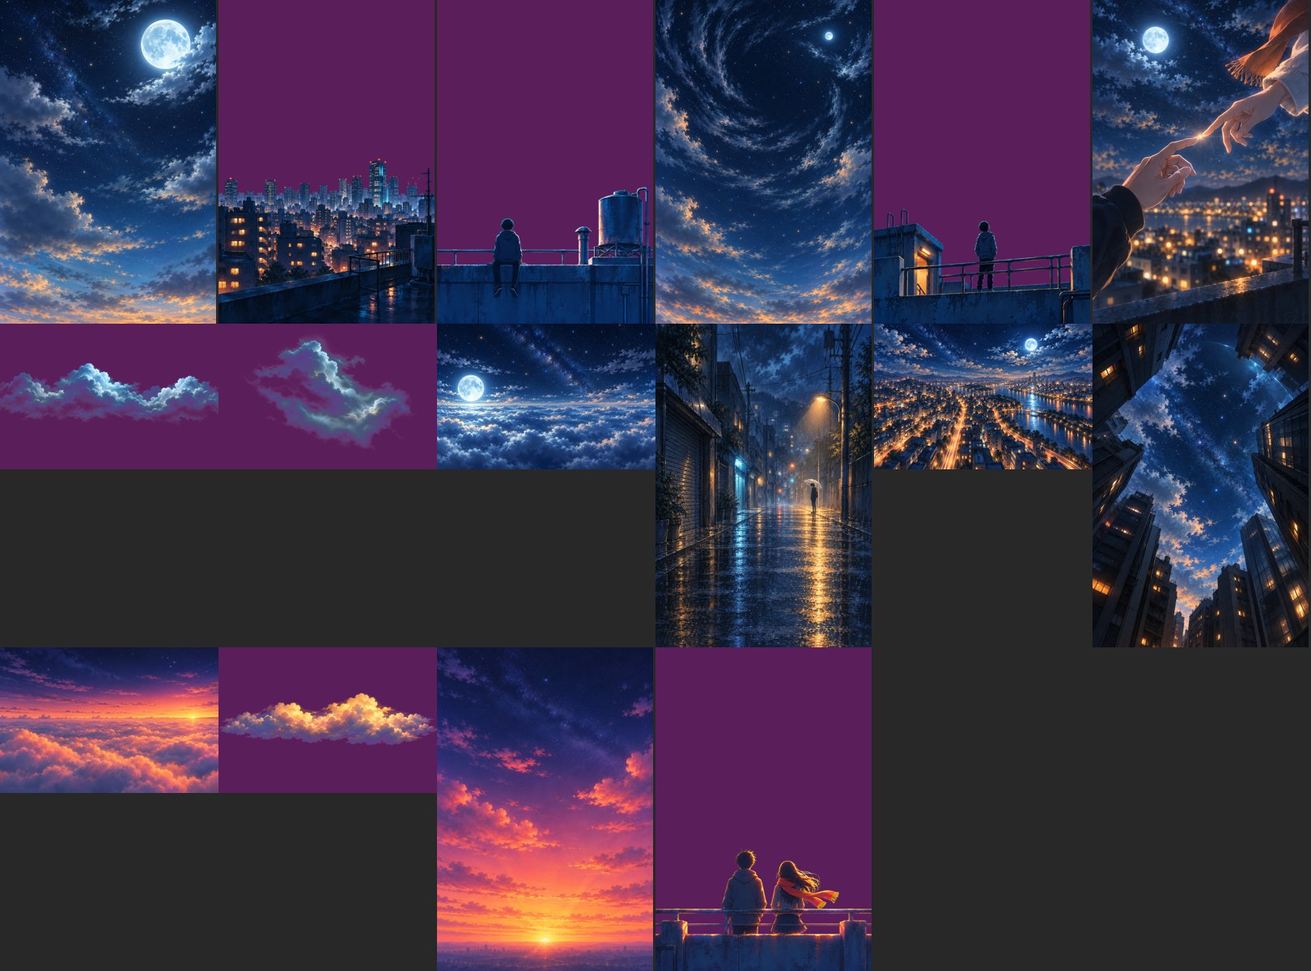
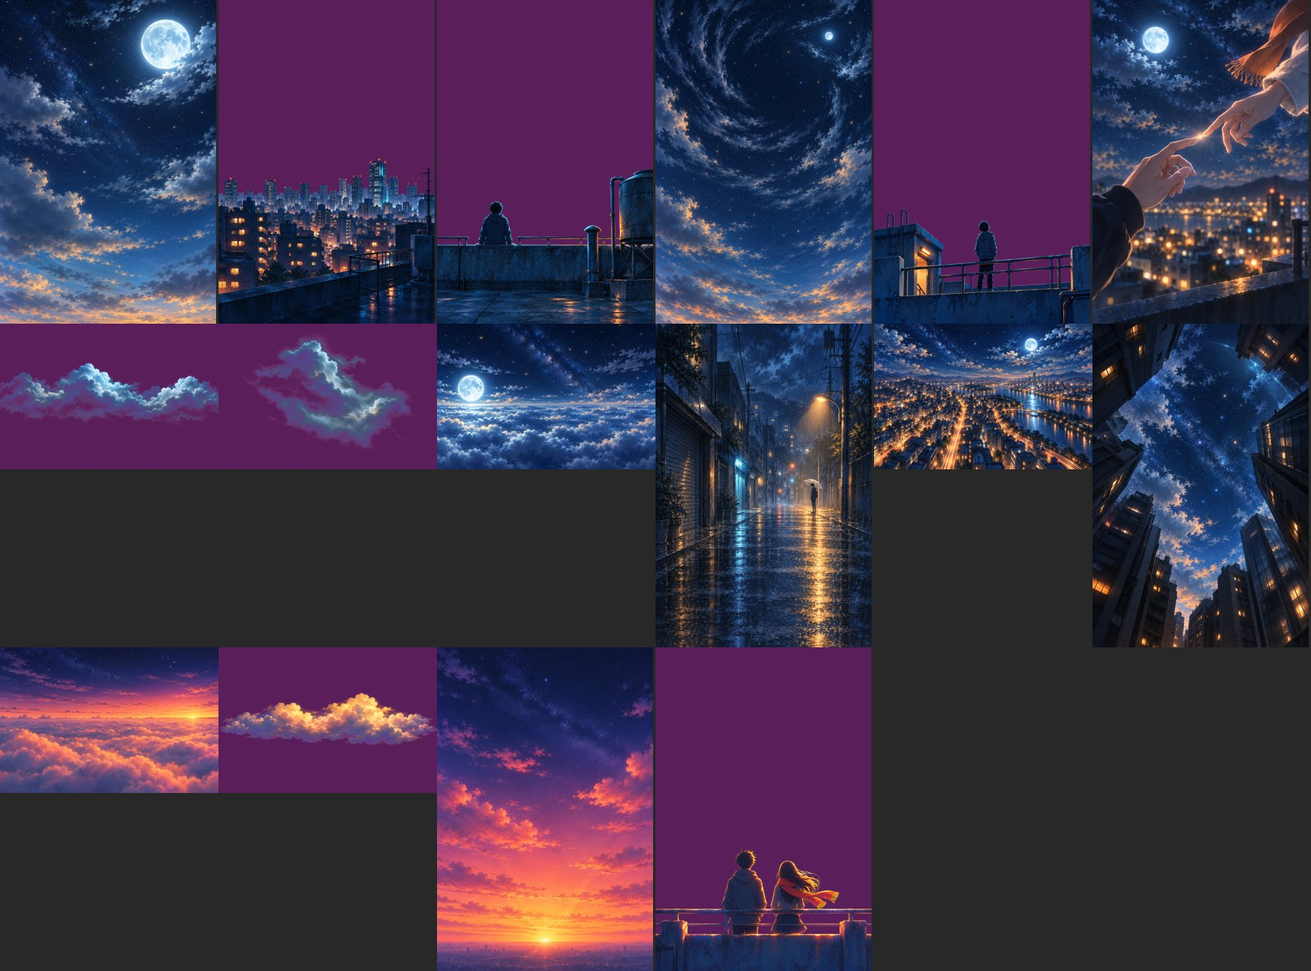
ashita: fix rooftop boy pose, readable subtitles, clipped lyric line
- s01_roof: boy sits on the parapet facing away, legs over the outer side
  (previous plate had his legs hanging toward the viewer)
- shared/cine.js sub(): opt-in SUB_BOX draws a soft dark band behind the
  Korean subtitle and uses weight 500; enabled only in ashita/cine.html
- line 14: add maxW so the second row no longer overflows the frame

Changed region(s): [[0.3086, 0.1542, 0.5247, 0.3392]]

diff --git a/ashita/kinetic_cine.html b/ashita/kinetic_cine.html
@@ -4,7 +4,7 @@
 <meta charset="utf-8">
 <meta name="viewport" content="width=device-width,initial-scale=1">
 <title>Ashita Night Flight</title>
-<link href="https://fonts.googleapis.com/css2?family=Josefin+Sans:wght@100;300;600&family=Noto+Sans+JP:wght@300;700;900&family=Noto+Sans+KR:wght@300;700&display=swap" rel="stylesheet">
+<link href="https://fonts.googleapis.com/css2?family=Josefin+Sans:wght@100;300;600&family=Noto+Sans+JP:wght@300;700;900&family=Noto+Sans+KR:wght@300;500;700&display=swap" rel="stylesheet">
 <style>*{margin:0}html,body{height:100%;background:#000;overflow:hidden}#cv{position:absolute;left:50%;top:50%;width:1080px;height:1920px;transform-origin:0 0}</style>
 </head>
 <body>
@@ -13,6 +13,7 @@
 <script>
 /* 明日の夜空哨戒班 — one continuous night flight (single camera path, no cuts) */
 const D={"dur":180.0,"lines":[{"i":0,"t":"気分次第です僕は","ko":"기분 내키는 대로인 나는","u":[["気",1.24,1.32,0,0],["分",1.32,1.52,0,0],["次",1.52,1.65,0,0],["第",1.65,1.81,0,0],["で",1.81,2.13,0,0],["す",2.13,2.29,0,0],["僕",2.29,2.65,0,0],["は",2.65,2.93,0,0]],"s":1.24,"e":2.93},{"i":1,"t":"敵を選んで戦う少年","ko":"적을 골라서 싸우는 소년","u":[["敵",2.98,3.26,0,0],["を",3.26,3.62,0,0],["選",3.62,3.82,0,0],["ん",3.82,3.9,0,0],["で",3.9,4.27,0,0],["戦",4.27,4.63,0,0],["う",4.63,5.03,0,0],["少",5.03,5.24,0,0],["年",5.24,5.51,0,0]],"s":2.98,"e":5.51},{"i":2,"t":"叶えたい未来も無くて","ko":"이루고 싶은 미래도 없어서","u":[["叶",5.56,5.88,0,0],["え",5.88,6.12,0,0],["た",6.12,6.37,0,0],["い",6.37,6.65,0,0],["未",6.65,6.89,0,0],["来",6.89,7.13,0,0],["も",7.13,7.45,0,0],["無",7.45,7.66,0,0],["く",7.66,7.82,0,0],["て",7.82,8.17,0,0]],"s":5.56,"e":8.17},{"i":3,"t":"夢に描かれるのを待ってた","ko":"꿈이 그려지길 기다리고 있었어","u":[["夢",8.22,8.42,0,0],["に",8.42,8.67,0,0],["描",8.67,8.99,0,0],["か",8.99,9.11,0,0],["れ",9.11,9.31,0,0],["る",9.31,9.55,0,0],["の",9.55,9.67,0,0],["を",9.67,9.73,0,0],["待",9.71,10.0,0,0],["っ",10.0,10.06,0,0],["て",10.04,10.2,0,0],["た",10.2,10.35,0,0]],"s":8.22,"e":10.35},{"i":4,"t":"そのくせ未来が怖くて","ko":"그런 주제에 미래가 무서워서","u":[["そ",10.4,11.0,0,0],["の",11.0,11.37,0,0],["く",11.37,11.45,0,0],["せ",11.45,11.81,0,0],["未",11.81,11.93,0,0],["来",11.93,12.17,0,0],["が",12.17,12.45,0,0],["怖",12.45,12.77,0,0],["く",12.77,12.85,0,0],["て",12.85,13.13,0,0]],"s":10.4,"e":13.13},{"i":5,"t":"明日を嫌って過去に願って","ko":"내일을 싫어하고 과거에 빌고","u":[["明",13.18,13.3,0,0],["日",13.3,13.54,0,0],["を",13.54,13.7,0,0],["嫌",13.7,14.06,0,0],["っ",14.06,14.14,0,0],["て",14.14,14.5,0,0],["過",14.5,14.58,0,0],["去",14.58,14.79,0,0],["に",14.79,15.07,0,0],["願",15.07,15.31,0,0],["っ",15.31,15.43,0,0],["て",15.43,15.74,0,0]],"s":13.18,"e":15.74},{"i":6,"t":"もう如何しようも無くなって叫ぶんだ","ko":"더 이상 어쩔 수 없어서 외치는 거야","u":[["も",15.79,15.87,0,0],["う",15.87,16.11,0,0],["如",16.11,16.27,0,0],["何",16.27,16.39,0,0],["し",16.39,16.48,0,0],["よ",16.48,16.56,0,0],["う",16.56,16.68,0,0],["も",16.68,16.92,0,0],["無",16.92,17.12,0,0],["く",17.12,17.32,0,0],["な",17.32,17.44,0,0],["っ",17.44,17.52,0,0],["て",17.52,17.76,0,0],["叫",17.76,18.08,0,0],["ぶ",18.08,18.29,0,0],["ん",18.29,18.41,0,0],["だ",18.41,18.8,0,0]],"s":15.79,"e":18.8},{"i":7,"t":"「明日よ！明日よ！もう来ないでよ！」って","ko":"「내일아! 내일아! 더는 오지 말아줘!」라고","u":[["「明",18.85,18.91,0,0],["日",18.89,19.05,0,0],["よ！",19.05,19.33,0,0],["明",19.33,19.41,0,0],["日",19.41,19.65,0,0],["よ！",19.65,19.94,0,0],["も",19.94,20.02,0,0],["う",20.02,20.3,0,0],["来",20.3,20.42,0,0],["な",20.42,20.66,0,0],["い",20.66,20.82,0,0],["で",20.82,21.06,0,0],["よ！」",21.06,21.34,0,0],["っ",21.34,21.4,0,0],["て",21.38,21.62,0,0]],"s":18.85,"e":21.62},{"i":8,"t":"そんな僕を置いて","ko":"그런 날 내버려 두고","u":[["そ",21.67,21.87,0,0],["ん",21.87,21.95,0,0],["な",21.95,22.63,0,0],["僕",22.63,23.03,0,0],["を",23.03,23.19,0,0],["置",23.19,23.25,0,0],["い",23.23,23.56,0,0],["て",23.56,24.31,0,0]],"s":21.67,"e":24.31},{"i":9,"t":"月は沈み陽は昇る","ko":"달은 지고 해는 떠올라","u":[["月",24.36,24.53,0,0],["は",24.53,24.69,0,0],["沈",24.69,24.93,0,0],["み",24.93,25.18,0,0],["陽",25.18,25.42,0,0],["は",25.42,25.67,0,0],["昇",25.67,25.99,0,0],["る",25.99,26.23,0,0]],"s":24.36,"e":26.23},{"i":10,"t":"けどその夜は違ったんだ","ko":"하지만 그 밤은 달랐어","u":[["け",26.28,26.44,0,0],["ど",26.44,26.81,0,0],["そ",26.81,26.93,0,0],["の",26.93,27.22,0,0],["夜",27.22,27.38,0,0],["は",27.38,27.71,0,0],["違",27.71,27.99,0,0],["っ",27.99,28.16,0,0],["た",28.16,28.22,0,0],["ん",28.2,28.26,0,0],["だ",28.24,28.43,0,0]],"s":26.28,"e":28.43},{"i":11,"t":"君は僕の手を","ko":"너는 나의 손을","u":[["君",28.48,29.41,0,0],["は",29.41,30.41,0,0],["僕",30.5,31.35,0,0],["の",31.35,31.75,0,0],["手",31.75,31.99,0,0],["を",31.99,33.76,0,0]],"s":28.48,"e":33.76},{"i":12,"t":"空へ舞う　世界の彼方","ko":"하늘로 흩날리는 세계의 저편","u":[["空",33.81,34.25,0,0],["へ",34.25,34.54,0,0],["舞",34.54,34.66,0,0],["う",34.66,35.22,0,0],["世",35.22,35.43,0,1],["界",35.43,35.83,0,0],["の",35.83,36.23,0,0],["彼",36.23,36.52,0,0],["方",36.52,37.07,0,0]],"s":33.81,"e":37.07},{"i":13,"t":"闇を照らす魁星","ko":"어둠을 비추는 괴성","u":[["闇",37.12,37.32,0,0],["を",37.32,37.48,0,0],["照",37.48,37.68,0,0],["ら",37.68,37.84,0,0],["す",37.84,38.12,0,0],["魁",38.12,38.28,0,0],["星",38.28,39.64,0,0]],"s":37.12,"e":39.64},{"i":14,"t":"『君と僕もさ、また明日へ向かっていこう』","ko":"『너와 나도 말이야, 다시 내일을 향해서 가자』","u":[["『君",39.69,40.45,0,0],["と",40.45,40.77,0,0],["僕",40.77,41.09,0,0],["も",41.09,41.33,0,0],["さ、",41.33,41.61,0,0],["ま",41.61,41.73,0,0],["た",41.73,42.05,0,0],["明",42.05,42.17,0,0],["日",42.17,42.41,0,0],["へ",42.41,42.61,0,0],["向",42.61,42.81,0,0],["か",42.81,42.97,0,0],["っ",42.97,43.05,0,0],["て",43.05,43.3,0,0],["い",43.3,43.46,0,0],["こ",43.46,43.62,0,0],["う』",43.62,44.17,0,0]],"s":39.69,"e":44.17},{"i":15,"t":"夢で終ってしまうのならば","ko":"꿈으로 끝나 버리는 것이라면","u":[["夢",44.22,44.54,0,0],["で",44.54,44.82,0,0],["終",44.82,44.98,0,0],["っ",44.98,45.26,0,0],["て",45.26,45.66,0,0],["し",45.66,45.82,0,0],["ま",45.82,45.94,0,0],["う",45.94,46.18,0,0],["の",46.18,46.38,0,0],["な",46.38,46.58,0,0],["ら",46.58,46.82,0,0],["ば",46.82,47.22,0,0]],"s":44.22,"e":47.22},{"i":16,"t":"「昨日を変えさせて」","ko":"「어제를 바꾸게 해줘」","u":[["「昨",47.27,47.39,0,0],["日",47.39,47.71,0,0],["を",47.71,47.77,0,0],["変",47.75,48.19,0,0],["え",48.19,48.25,0,0],["さ",48.23,48.35,0,0],["せ",48.35,49.35,0,0],["て」",49.39,49.62,0,0]],"s":47.27,"e":49.62},{"i":17,"t":"なんて言わないから","ko":"라고는 말하지 않을 테니까","u":[["な",49.67,49.95,0,0],["ん",49.95,50.01,0,0],["て",49.99,50.47,0,0],["言",50.47,50.63,0,0],["わ",50.63,50.83,0,0],["な",50.83,50.99,0,0],["い",50.99,51.48,0,0],["か",51.48,51.6,0,0],["ら",51.6,51.87,0,0]],"s":49.67,"e":51.87},{"i":18,"t":"また明日も君とこうやって笑わせて","ko":"다시 내일도 너랑 이렇게 해서 웃게 해줘","u":[["ま",51.92,52.04,0,0],["た",52.04,52.28,0,0],["明",52.28,52.4,0,0],["日",52.4,52.64,0,0],["も",52.64,52.92,0,0],["君",52.92,53.2,0,0],["と",53.2,53.52,0,0],["こ",53.52,53.6,0,0],["う",53.6,53.8,0,0],["や",53.8,53.96,0,0],["っ",53.96,54.04,0,0],["て",54.04,54.48,0,0],["笑",54.48,54.76,0,0],["わ",54.76,54.92,0,0],["せ",54.92,55.16,0,0],["て",55.16,57.16,0,0]],"s":51.92,"e":57.16},{"i":19,"t":"あれから世界は変わったって","ko":"그 후로 세상이 변했다고","u":[["あ",85.33,85.45,0,0],["れ",85.45,85.69,0,0],["か",85.69,85.81,0,0],["ら",85.81,86.26,0,0],["世",86.26,86.39,0,0],["界",86.39,86.63,0,0],["は",86.63,87.0,0,0],["変",87.0,87.16,0,0],["わ",87.16,87.28,0,0],["っ",87.28,87.4,0,0],["た",87.4,87.73,0,0],["っ",87.73,87.81,0,0],["て",87.81,88.17,0,0]],"s":85.33,"e":88.17},{"i":20,"t":"本気で思ったって","ko":"진심으로 생각하려해도","u":[["本",88.22,88.42,0,0],["気",88.42,88.59,0,0],["で",88.59,88.71,0,0],["思",88.71,88.91,0,0],["っ",88.91,88.99,0,0],["た",88.99,89.32,0,0],["っ",89.32,89.38,0,0],["て",89.36,89.42,0,0]],"s":88.22,"e":89.42},{"i":21,"t":"期待したって変えようとしたって","ko":"기대해도 바뀌려고 해도","u":[["期",89.24,90.24,0,0],["待",90.49,90.77,0,0],["し",90.77,90.93,0,0],["た",90.93,91.13,0,0],["っ",91.13,91.25,0,0],["て",91.25,91.54,0,0],["変",91.54,91.66,0,0],["え",91.66,91.82,0,0],["よ",91.82,91.94,0,0],["う",91.94,92.1,0,0],["と",92.1,92.38,0,0],["し",92.38,92.54,0,0],["た",92.54,92.78,0,0],["っ",92.78,92.9,0,0],["て",92.9,93.34,0,0]],"s":89.24,"e":93.34},{"i":22,"t":"未来は残酷で","ko":"미래는 잔혹하고","u":[["未",93.39,93.55,0,0],["来",93.55,93.79,0,0],["は",93.79,94.27,0,0],["残",94.27,94.43,0,0],["酷",94.43,94.76,0,0],["で",94.76,94.95,0,0]],"s":93.39,"e":94.95},{"i":23,"t":"それでもいつだって君と見ていた","ko":"그래도 언제나 너랑 바라봤던","u":[["そ",95.0,95.28,0,0],["れ",95.28,95.48,0,0],["で",95.48,95.64,0,0],["も",95.64,95.97,0,0],["い",95.97,96.13,0,0],["つ",96.13,96.41,0,0],["だ",96.41,96.61,0,0],["っ",96.61,96.69,0,0],["て",96.69,97.05,0,0],["君",97.05,97.33,0,0],["と",97.33,97.66,0,0],["見",97.66,97.86,0,0],["て",97.86,98.02,0,0],["い",98.02,98.18,0,0],["た",98.18,98.61,0,0]],"s":95.0,"e":98.61},{"i":24,"t":"世界は本当に綺麗だった","ko":"세계는 정말로 아름다웠어","u":[["世",98.66,98.78,0,0],["界",98.78,99.07,0,0],["は",99.07,99.51,0,0],["本",99.51,99.67,0,0],["当",99.67,99.87,0,0],["に",99.87,100.23,0,0],["綺",100.23,100.35,0,0],["麗",100.35,100.64,0,0],["だ",100.64,100.88,0,0],["っ",100.88,100.94,0,0],["た",100.92,100.98,0,0]],"s":98.66,"e":100.98},{"i":25,"t":"忘れてないさ","ko":"잊어버리지 않았어","u":[["忘",101.0,101.9,0,0],["れ",101.9,102.14,0,0],["て",102.14,102.39,0,0],["な",102.39,102.55,0,0],["い",102.55,102.79,0,0],["さ",102.79,103.07,0,0]],"s":101.0,"e":103.07},{"i":26,"t":"思い出せるように仕舞ってるの","ko":"언제든지 떠올릴 수 있게 잘 간직하고 있어","u":[["思",103.12,103.32,0,0],["い",103.32,103.53,0,0],["出",103.53,103.77,0,0],["せ",103.77,104.06,0,0],["る",104.06,104.34,0,0],["よ",104.34,104.46,0,0],["う",104.46,104.54,0,0],["に",104.54,104.79,0,0],["仕",104.79,104.95,0,0],["舞",104.95,105.07,0,0],["っ",105.07,105.13,0,0],["て",105.11,105.2,0,0],["る",105.2,105.36,0,0],["の",105.36,105.42,0,0]],"s":103.12,"e":105.42},{"i":27,"t":"君がいてもいなくても翔べるなんて妄想","ko":"네가 있든 없든 날 수 있다니 망상이야","u":[["君",105.38,106.15,0,0],["が",106.15,106.35,0,0],["い",106.35,106.47,0,0],["て",106.47,106.63,0,0],["も",106.63,106.75,0,0],["い",106.75,106.81,0,0],["な",106.79,106.91,0,0],["く",106.91,106.97,0,0],["て",106.95,107.03,0,0],["も",107.03,107.15,0,0],["翔",107.15,107.35,0,0],["べ",107.35,107.47,0,0],["る",107.47,107.71,0,0],["な",107.71,107.84,0,0],["ん",107.84,107.92,0,0],["て",107.92,108.16,0,0],["妄",108.16,108.22,0,0],["想",108.2,108.71,0,0]],"s":105.38,"e":108.71},{"i":28,"t":"独りじゃ歩くことさえ僕は","ko":"혼자선 걷는 것조차 나는","u":[["独",108.76,109.0,0,0],["り",109.0,109.24,0,0],["じ",109.24,109.3,0,0],["ゃ",109.28,109.45,0,0],["歩",109.45,109.65,0,0],["く",109.65,109.85,0,0],["こ",109.85,109.91,0,0],["と",109.89,110.13,0,0],["さ",110.13,110.21,0,0],["え",110.21,110.49,0,0],["僕",110.49,110.73,0,0],["は",110.73,111.05,0,0]],"s":108.76,"e":111.05},{"i":29,"t":"しないまま藍色の風に吐いた幻想","ko":"하지 않은 채 남색 바람에 내뱉은 환상","u":[["し",111.1,111.26,0,0],["な",111.26,111.42,0,0],["い",111.42,111.66,0,0],["ま",111.66,111.72,0,0],["ま",111.7,111.9,0,0],["藍",111.9,112.02,0,0],["色",112.02,112.18,0,0],["の",112.18,112.34,0,0],["風",112.34,112.66,0,0],["に",112.66,112.83,0,0],["吐",112.83,112.95,0,0],["い",112.95,113.07,0,0],["た",113.07,113.35,0,0],["幻",113.35,113.51,0,0],["想",113.51,114.95,0,0]],"s":111.1,"e":114.95},{"i":30,"t":"壊してくれって願って踠いたって Eh…","ko":"부숴 달라고 기도하고 발버둥쳐도 Eh…","u":[["壊",115.0,115.06,0,0],["し",115.04,115.1,0,0],["て",115.08,115.14,0,0],["く",115.12,115.18,0,0],["れ",115.16,115.22,0,0],["っ",115.2,115.26,0,0],["て",115.24,115.32,0,0],["願",115.32,115.52,0,0],["っ",115.52,115.6,0,0],["て",115.6,115.84,0,0],["踠",115.84,116.24,0,0],["い",116.24,116.4,0,0],["た",116.4,116.72,0,0],["っ",116.72,116.88,0,0],["て",116.88,117.77,0,0],["Eh…",117.77,118.8,1,1]],"s":115.0,"e":118.8},{"i":31,"t":"『願ったんなら叶えてしまえや』って Eh…","ko":"『바란다면 이뤄버려』라고 Eh…","u":[["『願",118.85,119.29,0,0],["っ",119.29,119.45,0,0],["た",119.45,119.73,0,0],["ん",119.73,119.85,0,0],["な",119.85,120.01,0,0],["ら",120.01,120.21,0,0],["叶",120.21,120.57,0,0],["え",120.57,120.73,0,0],["て",120.73,121.01,0,0],["し",121.01,121.14,0,0],["ま",121.14,121.3,0,0],["え",121.3,121.38,0,0],["や』",121.38,121.7,0,0],["っ",121.7,121.78,0,0],["て",121.78,122.78,0,0],["Eh…",122.82,123.81,1,1]],"s":118.85,"e":123.81},{"i":32,"t":"君は言って","ko":"너는 말했지","u":[["君",123.86,124.42,0,0],["は",124.42,125.42,0,0],["言",126.59,126.75,0,0],["っ",126.75,126.91,0,0],["て",126.91,128.78,0,0]],"s":123.86,"e":128.78},{"i":33,"t":"また明日の夜に","ko":"또 내일 밤에","u":[["ま",128.83,128.95,0,0],["た",128.95,129.44,0,0],["明",129.44,129.64,0,0],["日",129.64,130.44,0,0],["の",130.44,130.72,0,0],["夜",130.72,131.72,0,0],["に",131.96,132.19,0,0]],"s":128.83,"e":132.19},{"i":34,"t":"逢いに行こうと思うが","ko":"만나러 가려고 생각하지만","u":[["逢",132.24,132.44,0,0],["い",132.44,132.6,0,0],["に",132.6,133.04,0,0],["行",133.04,133.1,0,0],["こ",133.08,133.32,0,0],["う",133.32,133.65,0,0],["と",133.65,133.85,0,0],["思",133.85,134.13,0,0],["う",134.13,134.19,0,0],["が",134.17,134.36,0,0]],"s":132.24,"e":134.36},{"i":35,"t":"どうかな君はいないかな","ko":"어떨까, 너는 없으려나","u":[["ど",134.41,134.61,0,0],["う",134.61,134.73,0,0],["か",134.73,134.85,0,0],["な",134.85,135.05,0,0],["君",135.05,135.33,0,0],["は",135.33,135.61,0,0],["い",135.61,135.77,0,0],["な",135.77,135.93,0,0],["い",135.93,136.13,0,0],["か",136.13,136.25,0,0],["な",136.25,136.48,0,0]],"s":134.41,"e":136.48},{"i":36,"t":"それでもいつまでも僕ら一つだから","ko":"그래도 언제까지고 우리는 하나니까","u":[["そ",136.53,136.61,0,0],["れ",136.61,136.77,0,0],["で",136.77,136.89,0,0],["も",136.89,137.13,0,0],["い",137.13,137.25,0,0],["つ",137.25,137.41,0,0],["ま",137.41,137.54,0,0],["で",137.54,137.66,0,0],["も",137.66,137.9,0,0],["僕",137.9,138.26,0,0],["ら",138.26,138.42,0,0],["一",138.42,138.54,0,0],["つ",138.54,138.7,0,0],["だ",138.7,138.86,0,0],["か",138.86,139.02,0,0],["ら",139.02,139.08,0,0]],"s":136.53,"e":139.08},{"i":37,"t":"またね Sky Arrow 笑っていよう","ko":"또 보자 Sky Arrow 웃으며 있자","u":[["ま",138.88,139.4,0,0],["た",139.4,139.56,0,0],["ね",139.56,139.77,0,0],["Sky",139.77,140.61,1,1],["Arrow",140.61,141.61,1,1],["笑",142.1,142.54,0,1],["っ",142.54,142.94,0,0],["て",142.94,143.38,0,0],["い",143.38,143.44,0,0],["よ",143.42,143.51,0,0],["う",143.51,143.74,0,0]],"s":138.88,"e":143.74},{"i":38,"t":"未来を少しでも君といたいから叫ぼう","ko":"미래를 조금이라도 너와 있고 싶으니 외쳐보자","u":[["未",143.79,143.95,0,0],["来",143.95,144.27,0,0],["を",144.27,144.59,0,0],["少",144.59,144.75,0,0],["し",144.75,144.99,0,0],["で",144.99,145.07,0,0],["も",145.07,145.4,0,0],["君",145.4,145.64,0,0],["と",145.64,145.88,0,0],["い",145.88,146.04,0,0],["た",146.04,146.2,0,0],["い",146.2,146.4,0,0],["か",146.4,146.48,0,0],["ら",146.48,146.68,0,0],["叫",146.68,147.0,0,0],["ぼ",147.0,147.2,0,0],["う",147.2,147.4,0,0]],"s":143.79,"e":147.4},{"i":39,"t":"\"今日の日をいつか思い出せ未来の僕ら！\"","ko":"\"오늘의 날을 언젠가 떠올려 줘, 미래의 우리들아!\"","u":[["\"今",147.45,147.53,0,0],["日",147.53,147.65,0,0],["の",147.65,147.89,0,0],["日",147.89,148.01,0,0],["を",148.01,148.25,0,0],["い",148.25,148.33,0,0],["つ",148.33,148.49,0,0],["か",148.49,148.73,0,0],["思",148.73,148.85,0,0],["い",148.85,149.01,0,0],["出",149.01,149.14,0,0],["せ",149.14,149.42,0,0],["未",149.42,149.62,0,0],["来",149.62,149.82,0,0],["の",149.82,150.06,0,0],["僕",150.06,150.46,0,0],["ら！\"",150.46,152.41,0,0]],"s":147.45,"e":152.41}]};
+var SUB_BOX=1;   // dark band behind the Korean subtitle so it reads over the painted plates
 CINE.init(document.getElementById('cv'),D);
 ACC='#8FE3FF';const ORG='#FFB547';B0=1.24%BEAT;
 const L=i=>Ln[i];
@@ -229,7 +230,7 @@ function lyrics(t){
   layer(1,()=>{let i=12,[x,y]=at(t,i,0,0);row(t,i,[0,1,2,3],x-70,y-120,170,'wind',{dir:1,out:outOf(i),exit:'wind'});row(t,i,[4,5,6,7,8],x+80,y+90,100,'wind',{dir:-1,w:300,out:outOf(i),exit:'wind'});subOf(t,i,x,y+220);
     i=13;[x,y]=at(t,i,-60,40);row(t,i,[0,1,2,3,4],x-40,y-260,86,'rise',{w:300,out:outOf(i)});row(t,i,[5,6],x,y-40,300,'pop',{hot:'#FFE2B0',gcol:ORG,hotGlow:80,glow:30,out:outOf(i)});subOf(t,i,x,y+170)});
   // above the clouds, following the leading star
-  layer(1,()=>{let i=14,[x,y]=at(t,i,0,-40);row(t,i,[0,1,2,3,4],x-60,y-80,100,'rise',{w:300,out:outOf(i)});row(t,i,[5,6,7,8,9,10,11,12,13,14,15,16],x,y+60,96,'rise',{out:outOf(i)});subOf(t,i,x,y+190);
+  layer(1,()=>{let i=14,[x,y]=at(t,i,0,-40);row(t,i,[0,1,2,3,4],x-60,y-80,100,'rise',{w:300,maxW:900,out:outOf(i)});row(t,i,[5,6,7,8,9,10,11,12,13,14,15,16],x,y+60,96,'rise',{maxW:940,out:outOf(i)});subOf(t,i,x,y+190);
     i=15;[x,y]=at(t,i,0,-40);row(t,i,[0,1,2,3,4],x-70,y-60,110,'rise',{out:outOf(i)});row(t,i,[5,6,7,8,9,10,11],x+80,y+80,96,'rise',{w:300,out:outOf(i)});subOf(t,i,x,y+200);
     // "let me change yesterday" — the words rewind, then dissolve (we will not ask for it)
     i=16;[x,y]=at(t,i,0,-20);{const rw=P(t,T(i,7)-.1,.8),gone=P(t,T(i,7)+.5,.7);g.save();g.translate(x,y);g.scale(1-.15*rw,1);row(t,i,[0,1,2,3,4,5,6,7],0,0,108,'rise',{maxW:940,a:1-gone});g.restore();
@@ -309,7 +310,7 @@ function render(t){CINE.begin();const c=cam(t),B=BOOST(t),IB=(t>61&&t<77)?.6:0;C
   windLines(t,camVel(t));layer(1.6,()=>dust(t,1));post(t);
   const fi=clamp(t/.6);if(fi<1){g.fillStyle=`rgba(0,0,0,${1-fi})`;g.fillRect(0,0,W,H)}const fo=P(t,176.5,3);if(fo>0){g.fillStyle=`rgba(0,0,0,${fo})`;g.fillRect(0,0,W,H)}}
 window.DUR=D.dur;
-window.READY=(async()=>{await loadPlates();const jp=Ln.map(l=>l.u.map(u=>u[0]).join('')).join(''),ko=Ln.map(l=>l.ko).join('');try{await Promise.all([document.fonts.load(JP(300,100),jp),document.fonts.load(JP(700,100),jp),document.fonts.load(JP(900,100),jp),document.fonts.load(KR(300,40),ko)])}catch(e){}window.renderAt=render;render(0)})();
+window.READY=(async()=>{await loadPlates();const jp=Ln.map(l=>l.u.map(u=>u[0]).join('')).join(''),ko=Ln.map(l=>l.ko).join('');try{await Promise.all([document.fonts.load(JP(300,100),jp),document.fonts.load(JP(700,100),jp),document.fonts.load(JP(900,100),jp),document.fonts.load(KR(300,40),ko),document.fonts.load(KR(500,40),ko)])}catch(e){}window.renderAt=render;render(0)})();
 </script>
 </body>
 </html>

diff --git a/ashita/cine.html b/ashita/cine.html
@@ -4,7 +4,7 @@
 <meta charset="utf-8">
 <meta name="viewport" content="width=device-width,initial-scale=1">
 <title>Ashita Night Flight</title>
-<link href="https://fonts.googleapis.com/css2?family=Josefin+Sans:wght@100;300;600&family=Noto+Sans+JP:wght@300;700;900&family=Noto+Sans+KR:wght@300;700&display=swap" rel="stylesheet">
+<link href="https://fonts.googleapis.com/css2?family=Josefin+Sans:wght@100;300;600&family=Noto+Sans+JP:wght@300;700;900&family=Noto+Sans+KR:wght@300;500;700&display=swap" rel="stylesheet">
 <style>*{margin:0}html,body{height:100%;background:#000;overflow:hidden}#cv{position:absolute;left:50%;top:50%;width:1080px;height:1920px;transform-origin:0 0}</style>
 </head>
 <body>
@@ -13,6 +13,7 @@
 <script>
 /* 明日の夜空哨戒班 — one continuous night flight (single camera path, no cuts) */
 const D=/*DATA*/null;
+var SUB_BOX=1;   // dark band behind the Korean subtitle so it reads over the painted plates
 CINE.init(document.getElementById('cv'),D);
 ACC='#8FE3FF';const ORG='#FFB547';B0=1.24%BEAT;
 const L=i=>Ln[i];
@@ -229,7 +230,7 @@ function lyrics(t){
   layer(1,()=>{let i=12,[x,y]=at(t,i,0,0);row(t,i,[0,1,2,3],x-70,y-120,170,'wind',{dir:1,out:outOf(i),exit:'wind'});row(t,i,[4,5,6,7,8],x+80,y+90,100,'wind',{dir:-1,w:300,out:outOf(i),exit:'wind'});subOf(t,i,x,y+220);
     i=13;[x,y]=at(t,i,-60,40);row(t,i,[0,1,2,3,4],x-40,y-260,86,'rise',{w:300,out:outOf(i)});row(t,i,[5,6],x,y-40,300,'pop',{hot:'#FFE2B0',gcol:ORG,hotGlow:80,glow:30,out:outOf(i)});subOf(t,i,x,y+170)});
   // above the clouds, following the leading star
-  layer(1,()=>{let i=14,[x,y]=at(t,i,0,-40);row(t,i,[0,1,2,3,4],x-60,y-80,100,'rise',{w:300,out:outOf(i)});row(t,i,[5,6,7,8,9,10,11,12,13,14,15,16],x,y+60,96,'rise',{out:outOf(i)});subOf(t,i,x,y+190);
+  layer(1,()=>{let i=14,[x,y]=at(t,i,0,-40);row(t,i,[0,1,2,3,4],x-60,y-80,100,'rise',{w:300,maxW:900,out:outOf(i)});row(t,i,[5,6,7,8,9,10,11,12,13,14,15,16],x,y+60,96,'rise',{maxW:940,out:outOf(i)});subOf(t,i,x,y+190);
     i=15;[x,y]=at(t,i,0,-40);row(t,i,[0,1,2,3,4],x-70,y-60,110,'rise',{out:outOf(i)});row(t,i,[5,6,7,8,9,10,11],x+80,y+80,96,'rise',{w:300,out:outOf(i)});subOf(t,i,x,y+200);
     // "let me change yesterday" — the words rewind, then dissolve (we will not ask for it)
     i=16;[x,y]=at(t,i,0,-20);{const rw=P(t,T(i,7)-.1,.8),gone=P(t,T(i,7)+.5,.7);g.save();g.translate(x,y);g.scale(1-.15*rw,1);row(t,i,[0,1,2,3,4,5,6,7],0,0,108,'rise',{maxW:940,a:1-gone});g.restore();
@@ -309,7 +310,7 @@ function render(t){CINE.begin();const c=cam(t),B=BOOST(t),IB=(t>61&&t<77)?.6:0;C
   windLines(t,camVel(t));layer(1.6,()=>dust(t,1));post(t);
   const fi=clamp(t/.6);if(fi<1){g.fillStyle=`rgba(0,0,0,${1-fi})`;g.fillRect(0,0,W,H)}const fo=P(t,176.5,3);if(fo>0){g.fillStyle=`rgba(0,0,0,${fo})`;g.fillRect(0,0,W,H)}}
 window.DUR=D.dur;
-window.READY=(async()=>{await loadPlates();const jp=Ln.map(l=>l.u.map(u=>u[0]).join('')).join(''),ko=Ln.map(l=>l.ko).join('');try{await Promise.all([document.fonts.load(JP(300,100),jp),document.fonts.load(JP(700,100),jp),document.fonts.load(JP(900,100),jp),document.fonts.load(KR(300,40),ko)])}catch(e){}window.renderAt=render;render(0)})();
+window.READY=(async()=>{await loadPlates();const jp=Ln.map(l=>l.u.map(u=>u[0]).join('')).join(''),ko=Ln.map(l=>l.ko).join('');try{await Promise.all([document.fonts.load(JP(300,100),jp),document.fonts.load(JP(700,100),jp),document.fonts.load(JP(900,100),jp),document.fonts.load(KR(300,40),ko),document.fonts.load(KR(500,40),ko)])}catch(e){}window.renderAt=render;render(0)})();
 </script>
 </body>
 </html>

diff --git a/shared/cine.js b/shared/cine.js
@@ -72,7 +72,14 @@ function words(t,i,ks,x,y,font,style='rise',o={}){
 function big(t,txt,t0,x,y,font,o={}){const a=t-t0;if(a<-.3)return;const p=eOutC(clamp((a+.1)/(o.dur??.6)));g.save();g.globalAlpha=clamp((a+.1)/.2)*(o.a??1)*(1-eInC(clamp((t-(o.out??1e9))/.4)));g.font=font;g.textAlign='center';g.textBaseline=o.base||'middle';g.fillStyle=o.col||'#fff';g.shadowColor=o.gcol||ACC;g.shadowBlur=o.glow??30;
   g.letterSpacing=`${Math.round((o.sp??10)+(o.track??40)*(1-p))}px`;g.translate(x,y+(1-p)*(o.dy??30));const s=o.s0!=null?lerp(o.s0,1,p):1;g.scale(s,s);g.fillText(txt,0,0);g.restore()}
 // translation line (Korean) that travels with its lyric: fades in with the line, out with it
-function sub(t,txt,t0,t1,x,y,o={}){const a=clamp((t-t0+.1)/.35)*(1-clamp((t-t1)/.35));if(a<=0)return;g.save();g.globalAlpha=a*(o.a??.8);g.font=KR(300,o.f??40);g.textAlign='center';g.textBaseline='middle';g.fillStyle=o.col||'#CFE0F5';g.shadowColor='rgba(0,0,0,.6)';g.shadowBlur=10;g.fillText(txt,x,y+(1-eOutC(clamp((t-t0+.1)/.5)))*16,o.maxW??940);g.restore()}
+function sub(t,txt,t0,t1,x,y,o={}){const a=clamp((t-t0+.1)/.35)*(1-clamp((t-t1)/.35));if(a<=0)return;
+  const box=typeof SUB_BOX!=='undefined'&&SUB_BOX,f=o.f??40,mw=o.maxW??940,yy=y+(1-eOutC(clamp((t-t0+.1)/.5)))*16;
+  g.save();g.font=KR(box?500:300,f);g.textAlign='center';g.textBaseline='middle';
+  if(box){const w=Math.min(g.measureText(txt).width,mw),px=f*.7,h=f*1.7;   // soft dark band so the line reads over bright painted plates
+    g.globalAlpha=a*.55;g.fillStyle='rgba(6,10,24,1)';g.shadowColor='rgba(6,10,24,1)';g.shadowBlur=f*.9;
+    g.beginPath();g.roundRect(x-w/2-px,yy-h/2,w+px*2,h,h/2);g.fill()}
+  g.globalAlpha=a*(box?Math.max(o.a??.8,.95):o.a??.8);g.fillStyle=o.col||(box?'#EAF3FF':'#CFE0F5');g.shadowColor=box?'rgba(0,0,0,.9)':'rgba(0,0,0,.6)';g.shadowBlur=box?6:10;
+  g.fillText(txt,x,yy,mw);g.restore()}
 
 /* ---------- post: bloom, vignette, grain ---------- */
 let BL,bg2,GR;
